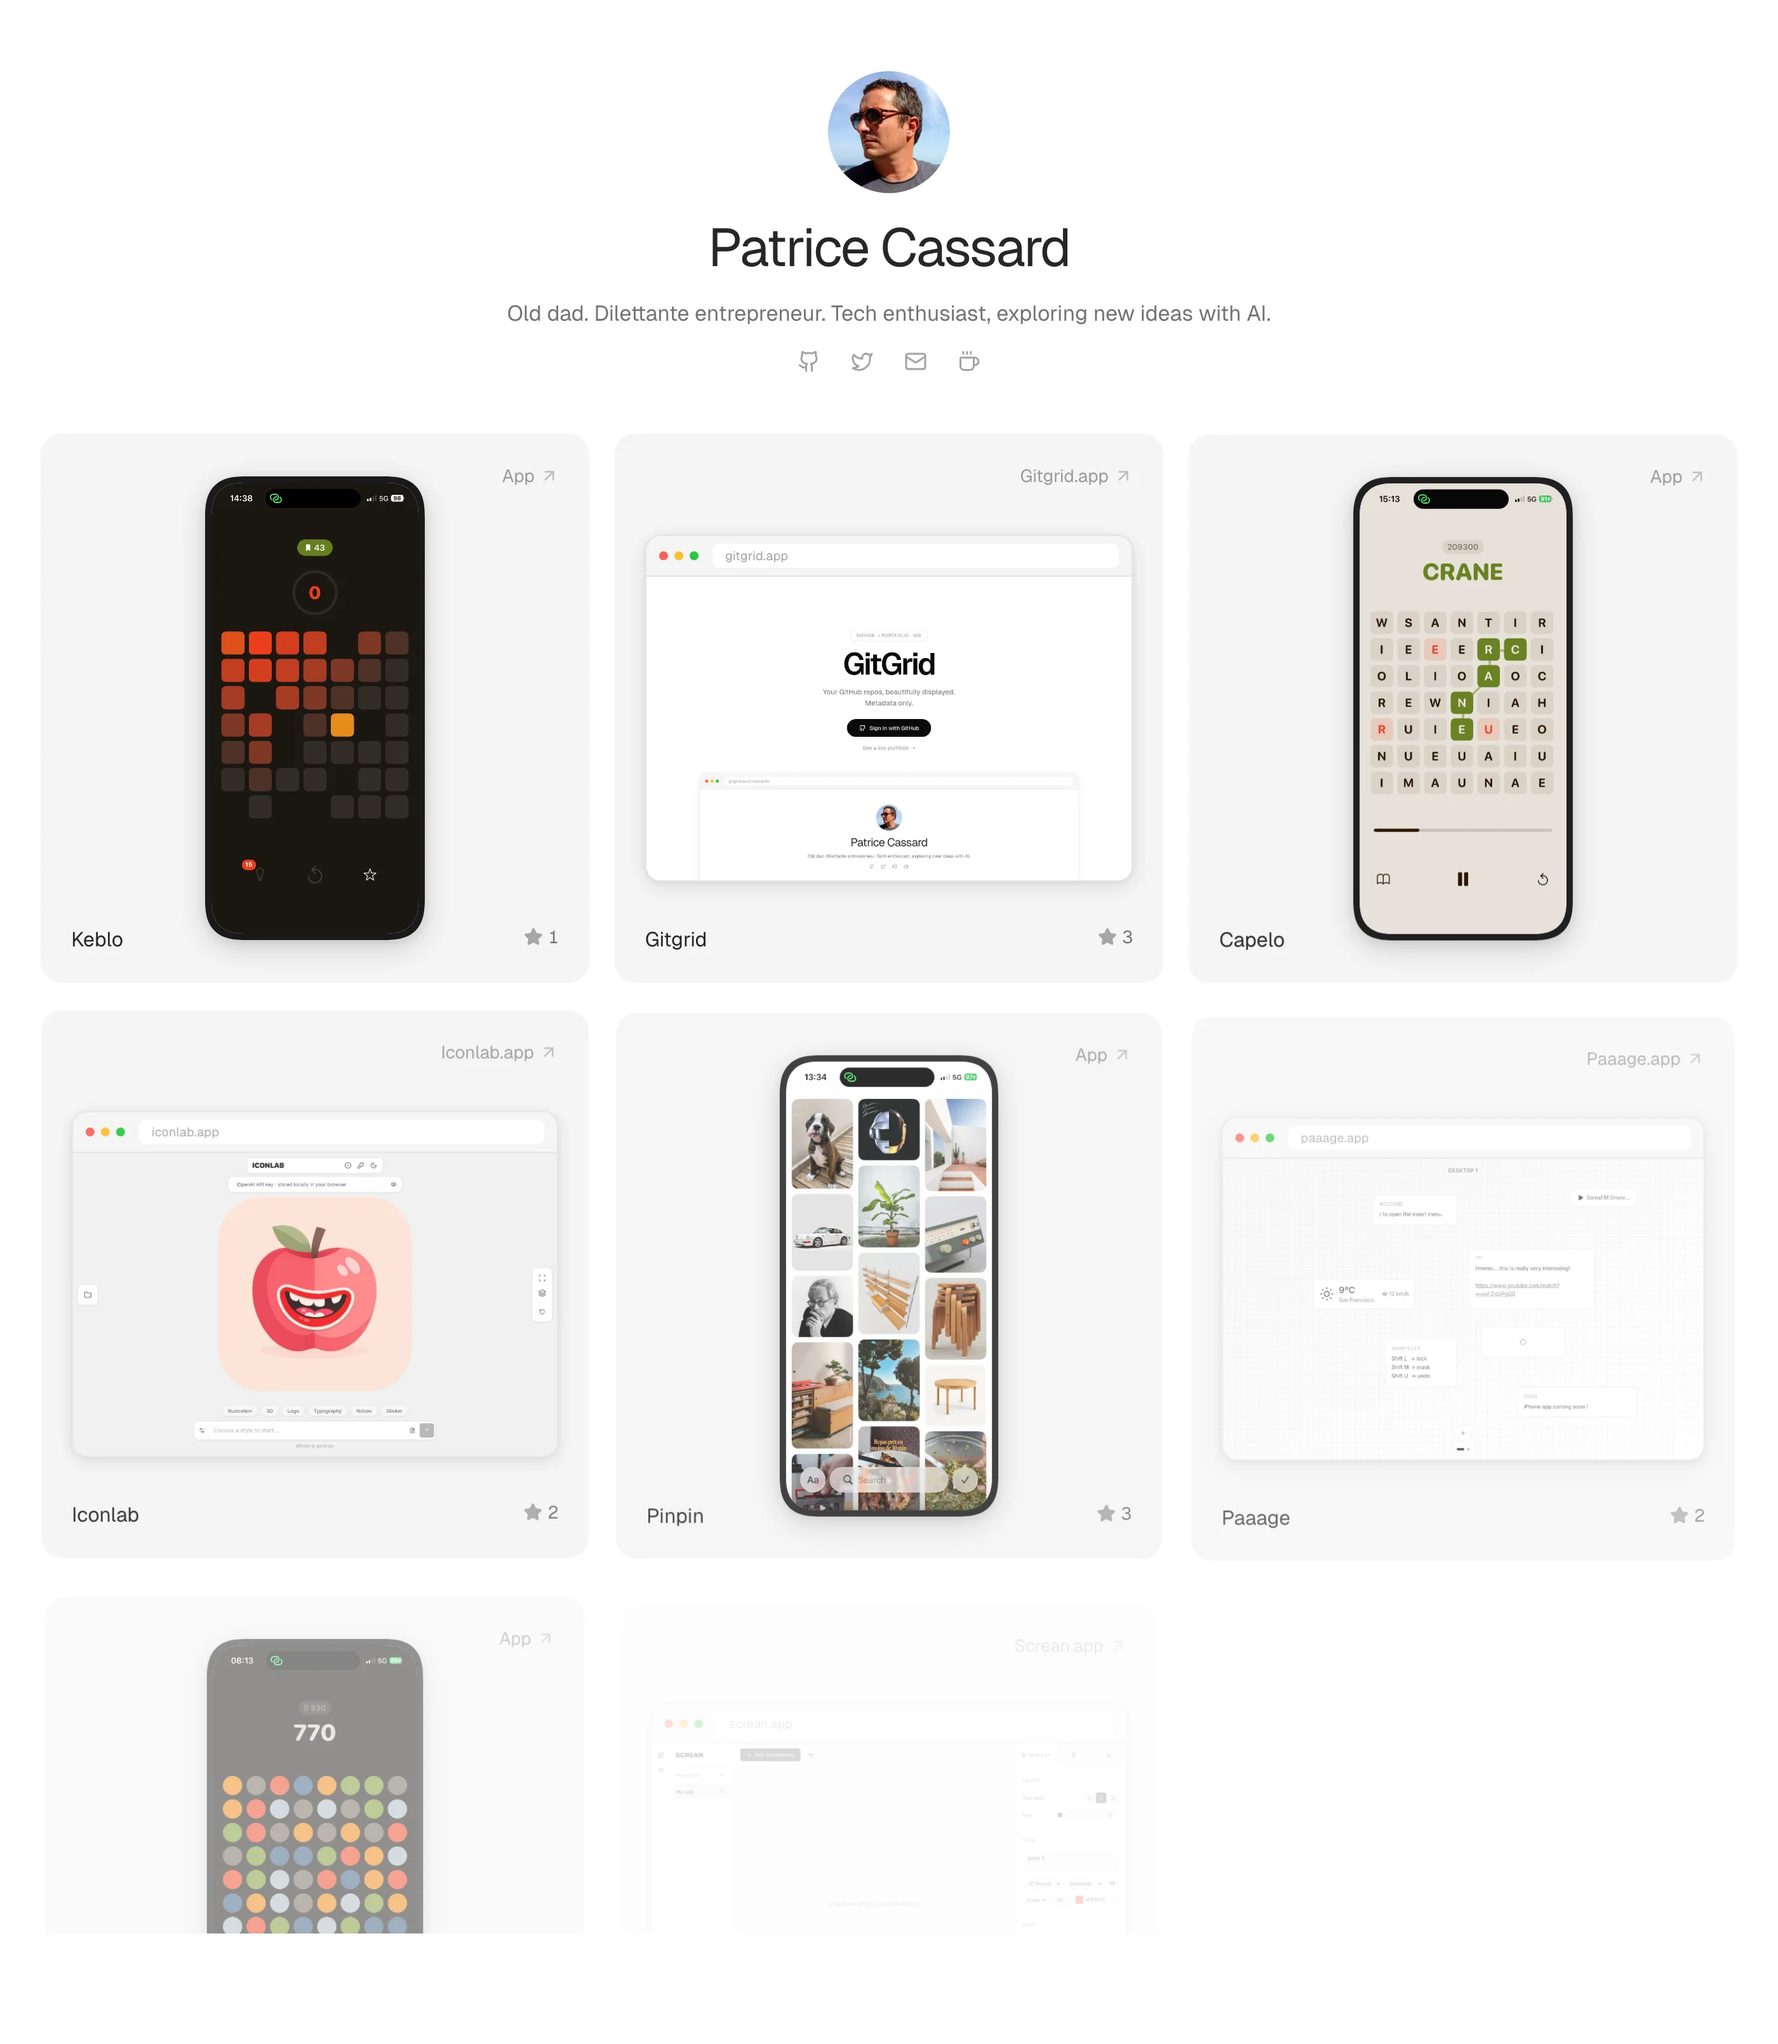
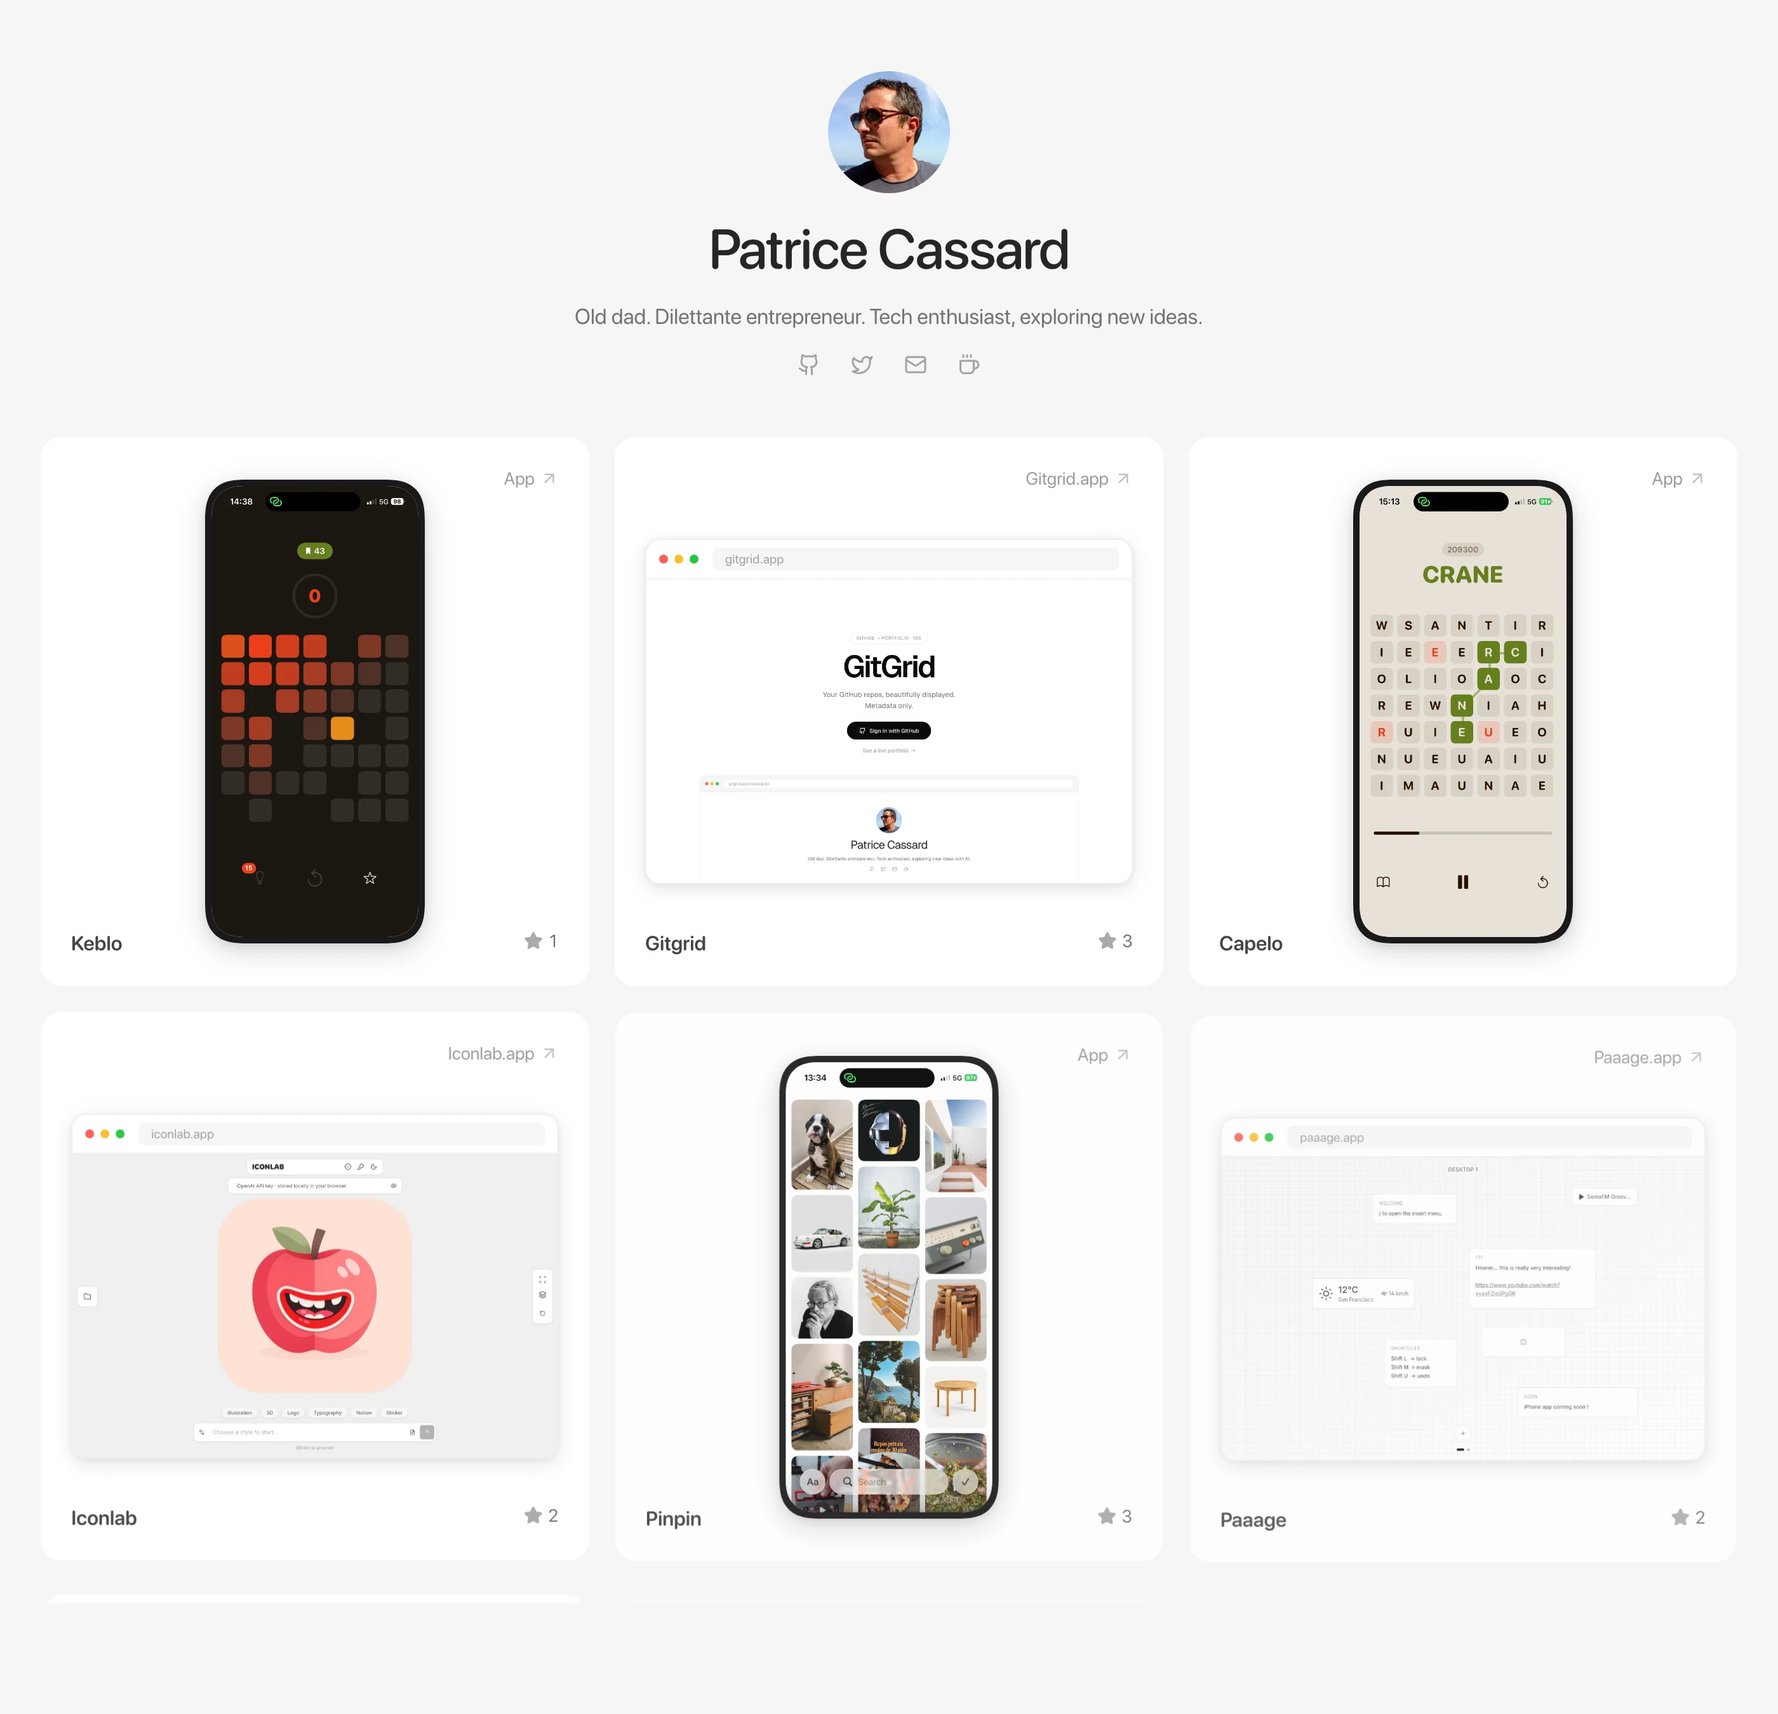
feat: refresh hero screenshot, unconstrain mobile tagline

diff --git a/styles/landing.css b/styles/landing.css
@@ -211,7 +211,7 @@ html:has(.landing), body:has(.landing) { background: var(--bg); overscroll-behav
 @media (max-width: 680px) {
   .landing-content { padding: 80px 20px 48px; }
   .landing-title { font-size: 48px; }
-  .landing-tagline { font-size: 17px; max-width: 300px; }
+  .landing-tagline { font-size: 17px; }
   .landing-badge { font-size: 11px; }
   .landing-top { margin-bottom: 40px; }
   .landing-cta { padding: 16px 32px; font-size: 14px; }
